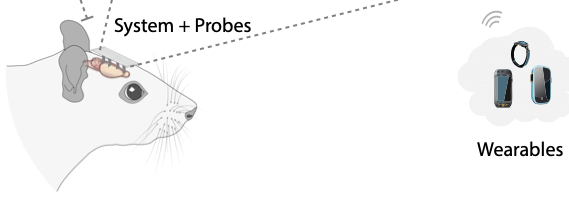
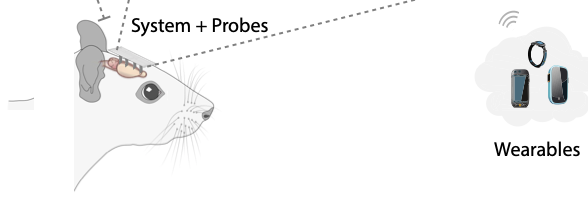
Fix- size bug

diff --git a/apps/web/app/about/page.tsx b/apps/web/app/about/page.tsx
@@ -56,18 +56,20 @@ export default function AboutPage() {
               <p key={paragraph.slice(0, 40)}>{paragraph}</p>
             ))}
           </div>
-          <img
-            src={rodentValidationImage}
-            alt="Acorn rodent brain interfacing — wireless power, implantable system and probes, and wearables"
-            width={569}
-            height={198}
-            className="mt-10 block w-full h-auto border-0"
-            loading="lazy"
-          />
+          <div className="mt-8 md:mt-10 overflow-x-auto">
+            <img
+              src={rodentValidationImage}
+              alt="Acorn rodent brain interfacing — wireless power, implantable system and probes, and wearables"
+              width={588}
+              height={200}
+              className="mx-auto block h-48 w-auto max-w-none border-0 sm:h-56 md:h-72 lg:h-80"
+              loading="lazy"
+            />
+          </div>
         </div>
       </section>
 
-      <section className="border-y border-acorn/10 bg-acorn-light/30">
+      <section className="bg-acorn-light/30">
         <div className="mx-auto max-w-6xl px-4 py-12 sm:px-6 md:py-16">
           <div className="text-center mb-10">
             <p className="section-label mb-3">Participating Institutions</p>

diff --git a/apps/web/app/research/page.tsx b/apps/web/app/research/page.tsx
@@ -1,7 +1,7 @@
 import React from 'react';
 import Link from 'next/link';
 import { OverviewPanels, PageHeader } from '../../components';
-import { overviewPanels, layersDiagram } from '../../content/images';
+import { overviewPanels } from '../../content/images';
 import { designGoals, intellectualMerit, researchThrusts } from '../../content/site';
 
 export const metadata = {
@@ -30,14 +30,6 @@ export default function ResearchPage() {
             <p key={paragraph.slice(0, 40)}>{paragraph}</p>
           ))}
         </div>
-        <img
-          src={layersDiagram}
-          alt="Acorn software and hardware stack — applications through MoLib, MoMA, and processor"
-          width={1636}
-          height={1196}
-          className="mt-10 block w-full h-auto border-0"
-          loading="lazy"
-        />
       </section>
 
       <section className="border-y border-gray-200/80 bg-[#F5F0EA]">

diff --git a/apps/web/content/images.ts b/apps/web/content/images.ts
@@ -6,8 +6,6 @@ export const aboutBrainImage = '/images/about-brain.jpg';
 
 export const rodentValidationImage = '/images/rodent-validation.png';
 
-export const layersDiagram = '/images/layers-diagram.png';
-
 export const overviewPanels = [
   {
     src: '/images/overview-panel-1.png',